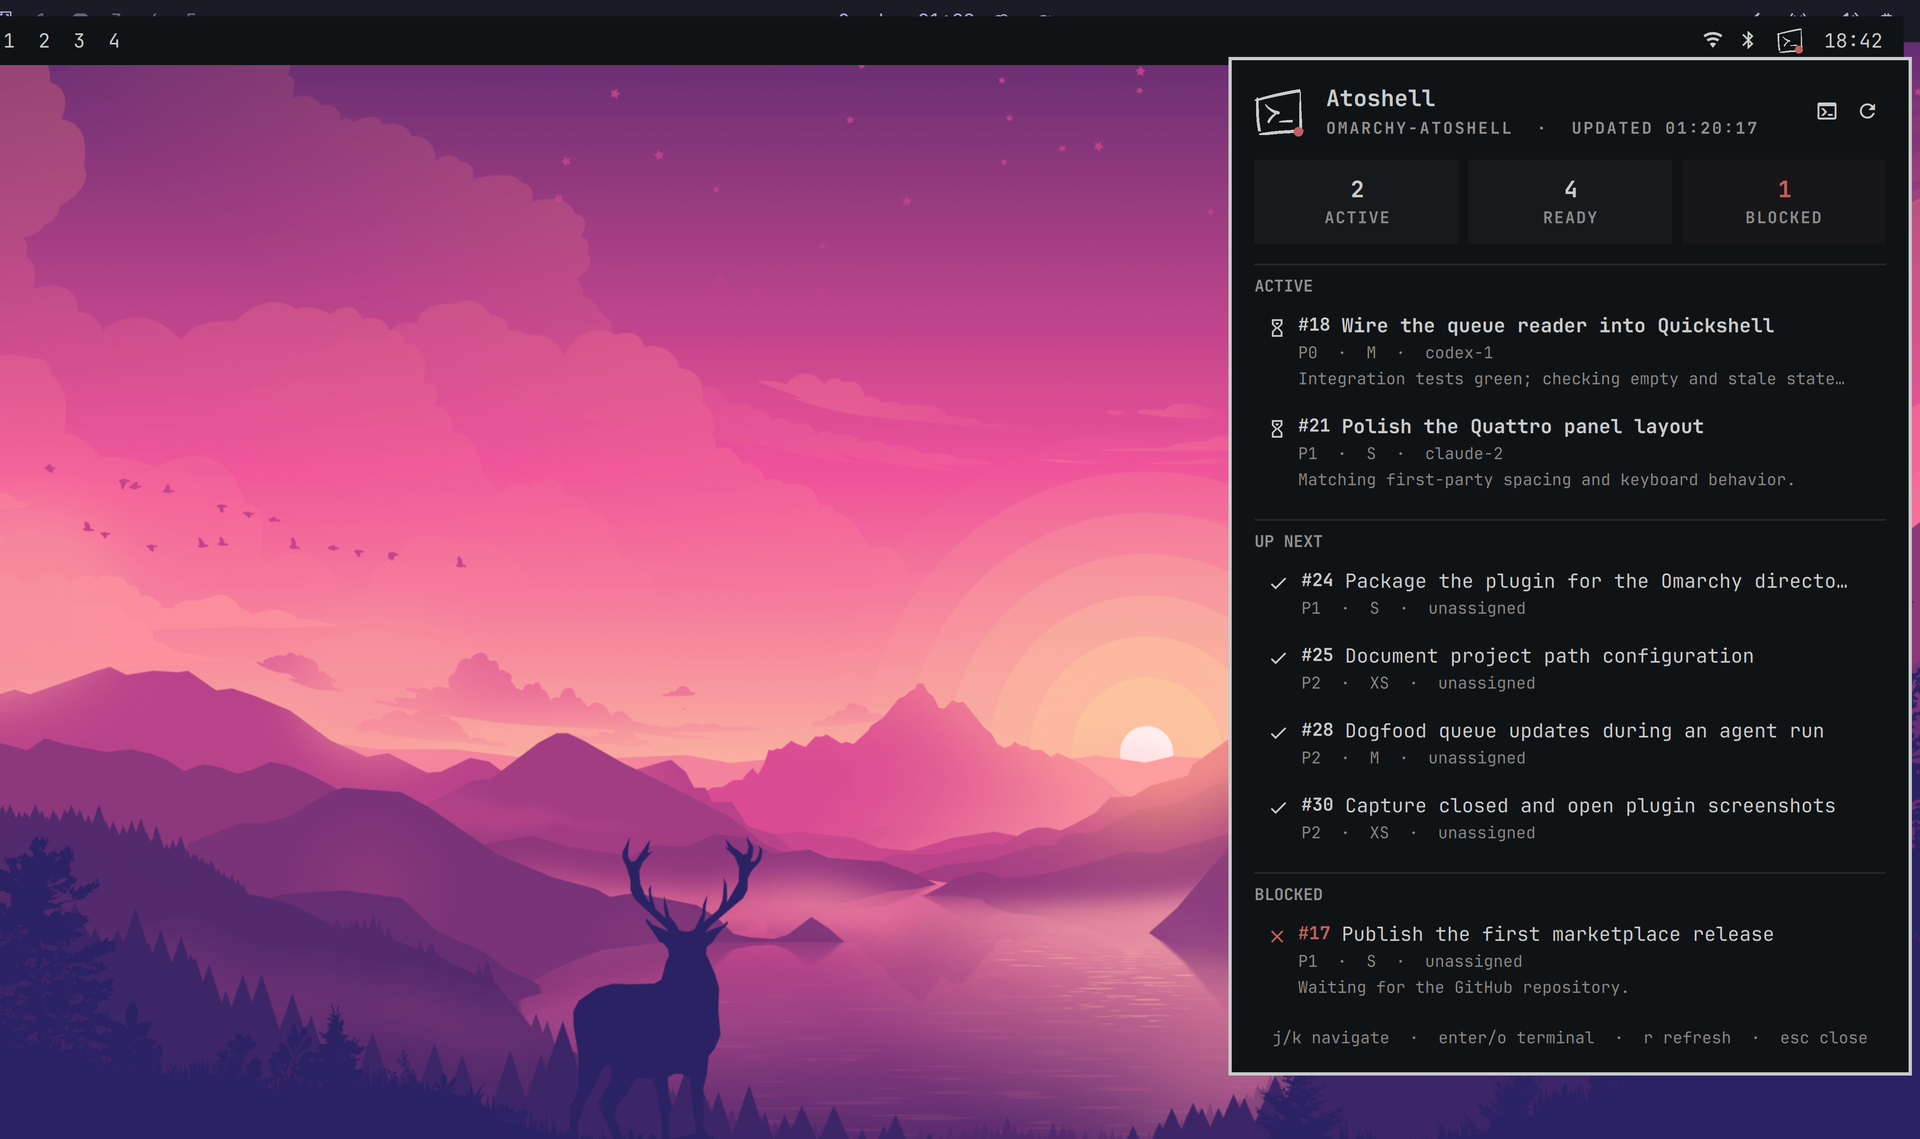
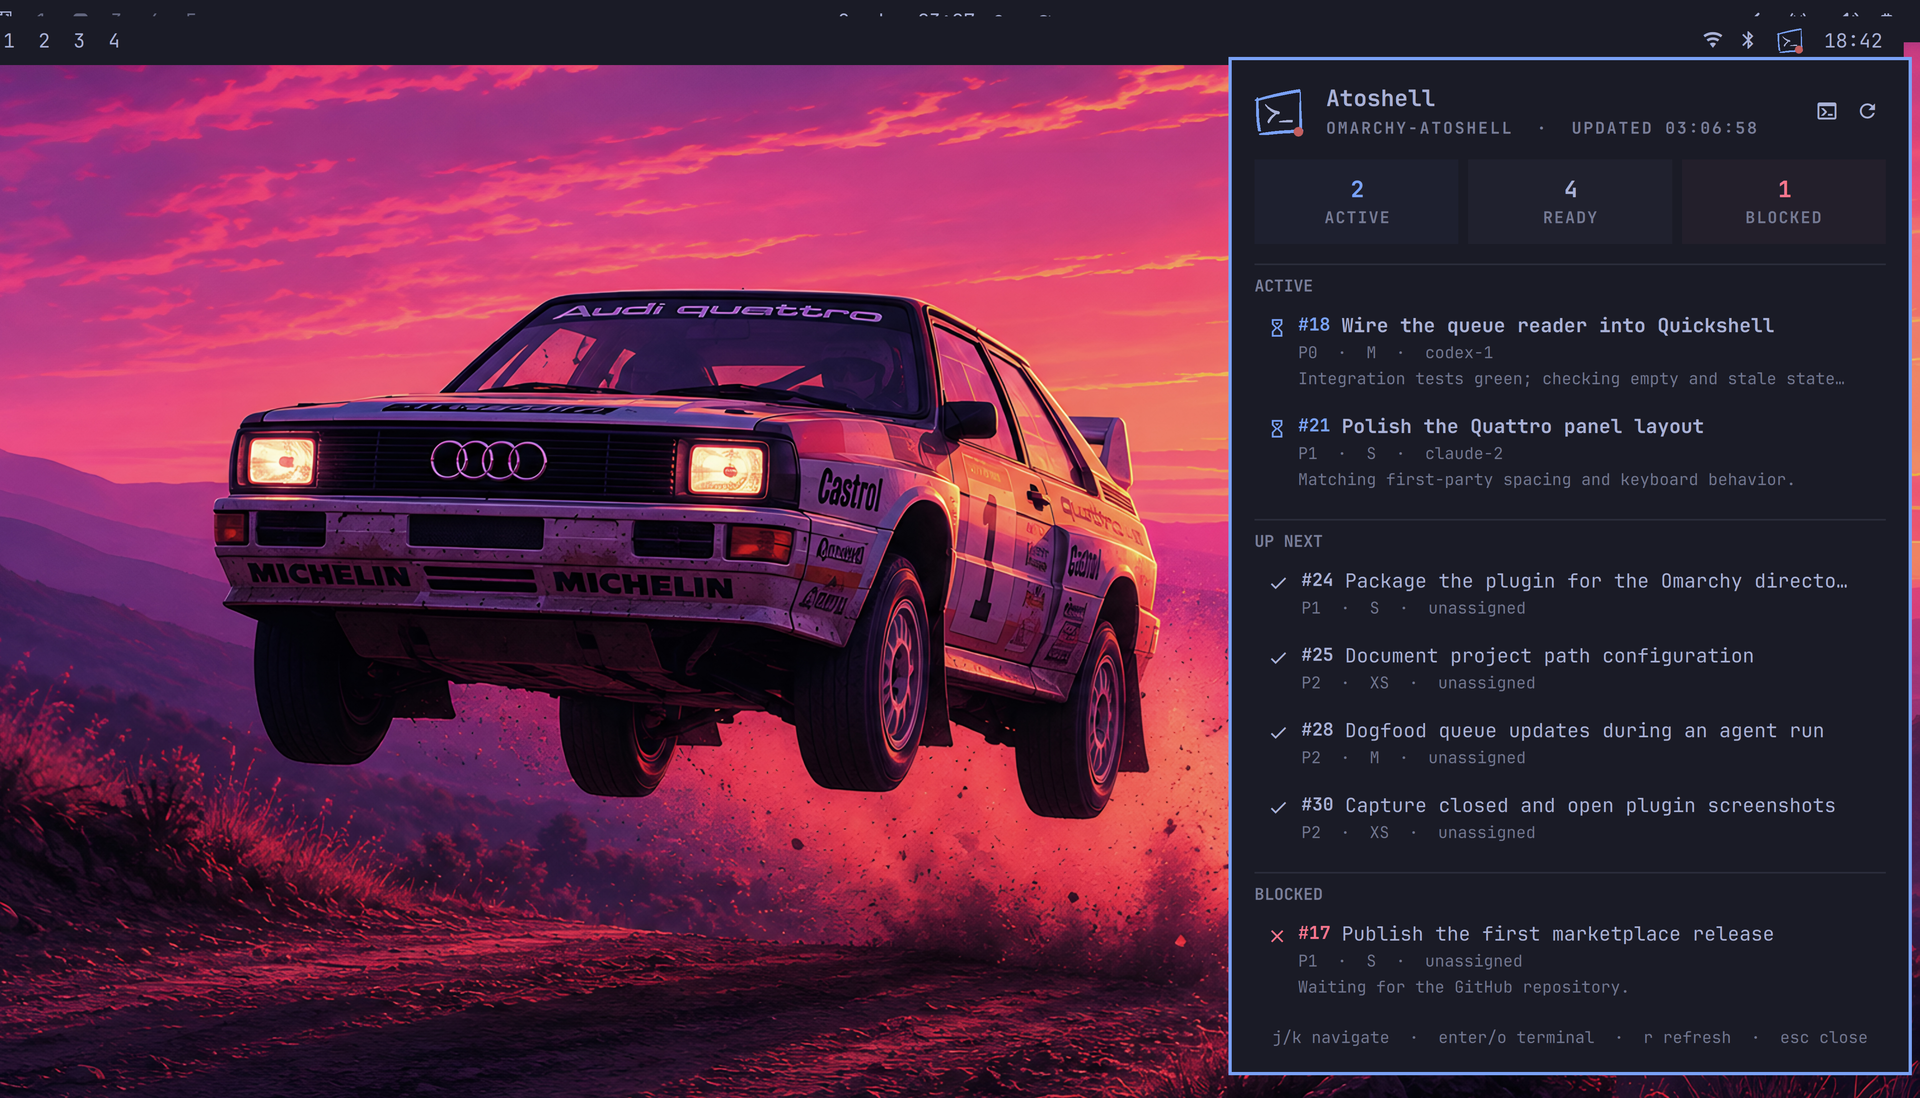
docs: show the Quattro desktop background

diff --git a/README.md b/README.md
@@ -8,9 +8,9 @@ A small, read-only Omarchy Quattro panel for watching an Atoshell queue while co
 
 <img src="docs/screenshots/panel-gold.png" alt="Atoshell Queue open panel using a dark theme with a gold accent" width="860">
 
-**Desktop overview — neutral/default theme:**
+**Quattro overview — the default Tokyo Night theme:**
 
-<img src="docs/screenshots/overview-default.png" alt="Atoshell Queue open in desktop context using a neutral theme" width="960">
+<img src="docs/screenshots/overview-default.png" alt="Atoshell Queue open in Omarchy Quattro using the default Tokyo Night theme and Audi Quattro background" width="960">
 
 **Taskbar detail — light theme with a blue accent:**
 
